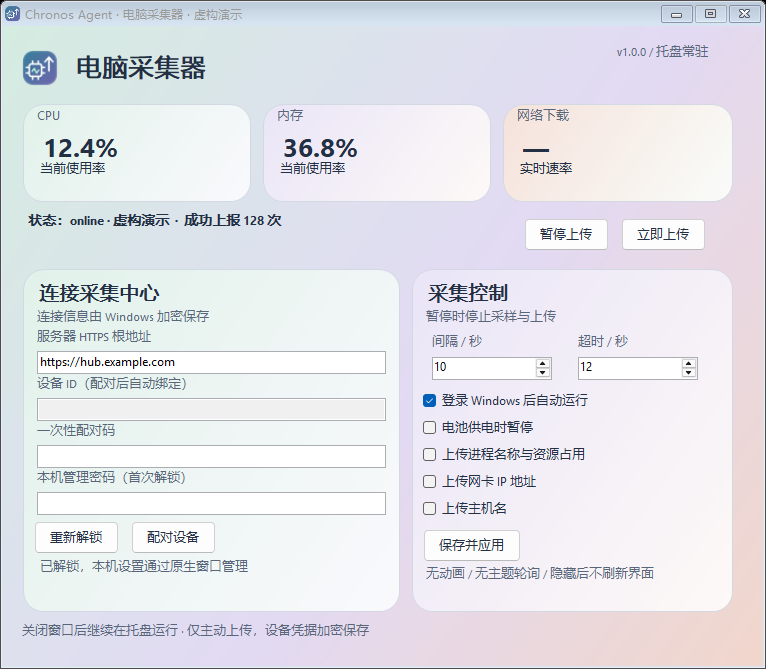
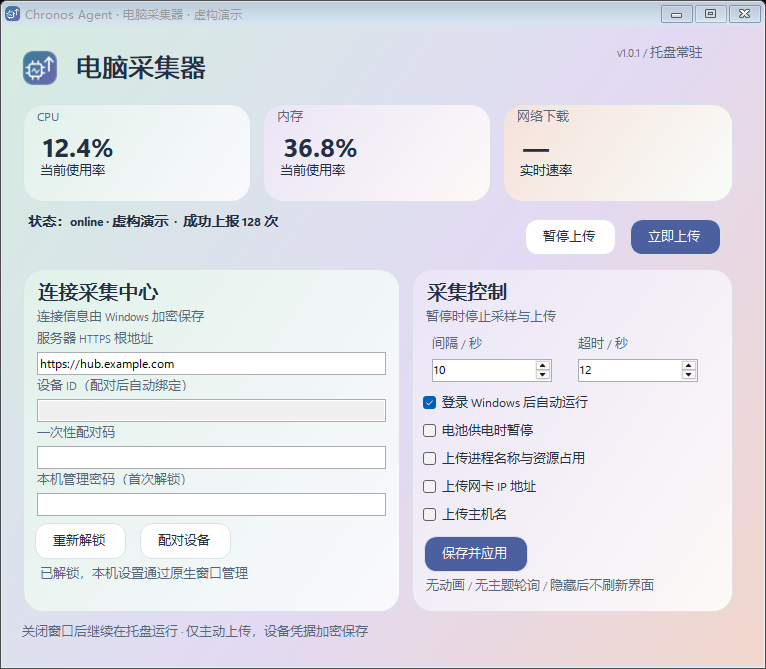
Ship adaptive Windows desktop layouts and shared Chronos desktop design

diff --git a/website/index.html b/website/index.html
@@ -1,1 +1,1 @@
-<!doctype html><html lang="zh-CN" data-theme="light"><head><meta name="theme-color" content="#f4f5f9"><meta charset="utf-8"><meta name="viewport" content="width=device-width,initial-scale=1"><meta name="color-scheme" content="light dark"><title>Chronos Agents — 每台设备，都有回应。</title><meta name="description" content="多端统一采集与自托管接收中心，原生桌面、Android App、Linux 与 NAS 网页管理。"><link rel="icon" href="assets/logo.svg"><script>try{let t=localStorage.getItem('chronos-site-theme');document.documentElement.dataset.theme=t==='dark'||t!=='light'&&matchMedia('(prefers-color-scheme:dark)').matches?'dark':'light'}catch{document.documentElement.dataset.theme=matchMedia('(prefers-color-scheme:dark)').matches?'dark':'light'}</script><link rel="stylesheet" href="style.css"><script src="app.js" defer></script><link rel="stylesheet" href="suite.css"><script src="suite.js" defer></script></head><body><a class="skip" href="#main">跳到正文</a><div class="ambient" aria-hidden="true"><i></i><i></i><i></i></div><header class="nav glass"><a class="brand" href="#"><img src="assets/logo.svg" width="32" height="32" alt=""><span>Chronos <b>Agents</b></span></a><nav aria-label="主导航"><a href="#platforms">多端</a><a href="#privacy">安全</a><a href="#start">开始</a></nav><div class="nav-actions"><button id="theme-toggle" class="icon-button" aria-label="切换明暗模式"><svg viewBox="0 0 24 24" aria-hidden="true"><path d="M20.5 14A8.5 8.5 0 0 1 10 3.5 8.5 8.5 0 1 0 20.5 14Z"/></svg></button><a href="https://github.com/Jimmy-xuzimo/Chronos-Agents">GitHub ↗</a></div></header><nav class="suite-rail wrap" aria-label="Chronos 系列项目"><a href="https://jimmy-xuzimo.github.io/Chronos-Monitoring/"><svg class="suite-icon" viewBox="0 0 24 24" aria-hidden="true"><rect x="3" y="4" width="18" height="13" rx="2"/><path d="M8 21h8m-4-4v4M6 8h5m-5 3h3m5-3h4m-4 3h4"/></svg><span>Monitoring</span></a><a href="https://jimmy-xuzimo.github.io/Chronos-Widgets/"><svg class="suite-icon" viewBox="0 0 24 24" aria-hidden="true"><rect x="3" y="3" width="7" height="9" rx="2"/><rect x="14" y="3" width="7" height="5" rx="2"/><rect x="3" y="16" width="7" height="5" rx="2"/><rect x="14" y="12" width="7" height="9" rx="2"/></svg><span>Widgets</span></a><a href="https://jimmy-xuzimo.github.io/Chronos-Agents/" aria-current="page"><svg class="suite-icon" viewBox="0 0 24 24" aria-hidden="true"><rect x="5" y="5" width="14" height="14" rx="3"/><path d="M9 2v3m6-3v3M9 19v3m6-3v3M2 9h3m-3 6h3m14-6h3m-3 6h3M8 13h2l2-4 2 6 2-3"/></svg><span>Agents</span></a></nav><main id="main"><section class="hero wrap"><div class="eyebrow"><span class="status-dot"></span> SELF-HOSTED · CROSS-PLATFORM · OPEN SOURCE</div><h1>每台设备，<br>都有<span class="gradient-text">回应。</span></h1><p class="hero-copy">从电脑到 NAS，从桌面到手机。<br>一致的协议，把状态送回自己的服务器。</p><div class="hero-actions"><a class="button primary" href="https://github.com/Jimmy-xuzimo/Chronos-Agents/releases">查看发行版本 ↓</a><a class="button secondary" href="#platforms">选择平台 ↗</a></div><p class="micro">原生桌面窗口 · 独立接收中心 · Apache 2.0</p><div class="hero-stage reveal"><div class="stage-toolbar"><span><i class="status-dot"></i> 一个 Hub，连接不同设备</span><span class="stage-label">真实界面 · 虚构演示数据</span></div><img src="assets/hub.png" width="1440" height="1000" alt="Hub 管理界面，使用虚构设备数据"><div class="stage-caption"><span>能力状态清晰，缺失指标不伪造为零。</span><span>数据留在自己的服务器</span></div></div></section><section class="wrap section"><div class="section-top"><div><p class="eyebrow">NATIVE WINDOWS</p><h2>熟悉的窗口，<br>新的采集核心。</h2></div><p>性能摘要、连接和采集控制清楚分区。<br>原生系统控件，没有 WebView，没有浏览器依赖。</p></div><div class="hero-stage reveal"><img src="assets/windows-native.png" width="767" height="669" alt="Windows 原生双栏采集器，虚构数据"><div class="stage-caption"><span>原生窗口实际渲染 · 虚构演示</span></div></div></section><section id="platforms" class="wrap section"><div class="section-top"><div><p class="eyebrow">NATIVE WHERE IT MATTERS</p><h2>适合每个平台，<br>遵循同一个协议。</h2></div><p>桌面就是桌面，服务就是服务。<br>交互与稳定，各有各的位置。</p></div><div class="catalog"><article class="reveal"><h3>Windows</h3><p>原生桌面窗口、托盘常驻。配对、暂停、间隔与隐私控制直接操作，无需本机网页。</p><small>登录自启动 · DPAPI</small></article><article class="reveal"><h3>macOS</h3><p>SwiftUI 原生窗口与菜单栏后台采集。可选 LaunchAgent 登录启动，管理密码进入钥匙串。</p><small>Intel / Apple Silicon · macOS 13+</small></article><article class="reveal"><h3>Linux / NAS</h3><p>原生服务或 Docker，独立认证网页管理端口。只读挂载宿主资源，无需 Docker socket。</p><small>amd64 / arm64 · 非 root 容器</small></article><article class="reveal"><h3>Android</h3><p>原生 Compose App，前台实时采集；后台由 WorkManager 调度，尊重系统省电规则。</p><small>Keystore · 后台周期至少 15 分钟</small></article><article class="reveal"><h3>独立接收中心</h3><p>一次性配对、权限、撤销、历史与审计。使用自己的 HTTPS 域名部署 Hub。</p><small>SQLite · CPU 历史与能力快照</small></article><article class="reveal"><h3>只读接入</h3><p>只读接入 Monitoring 工作台，再由 Widgets 将状态带到桌面。</p><small><a href="https://jimmy-xuzimo.github.io/Chronos-Monitoring/">Monitoring ↗</a> · <a href="https://jimmy-xuzimo.github.io/Chronos-Widgets/">Widgets ↗</a></small></article></div></section><section id="privacy" class="wrap section privacy"><div><p class="eyebrow">YOUR DATA, YOUR SERVER</p><h2>能看到状态，<br>不必收集生活。</h2></div><div class="privacy-points"><p><b>01</b>HTTPS 校验证书，每台设备独立凭据；配对码短时有效且只能使用一次。</p><p><b>02</b>进程、主机名与网络地址默认关闭，需要本地和中心同时允许。</p><p><b>03</b>无远程命令、短信、联系人或浏览器历史。离线队列仅在内存，且有容量上限。</p><p><b>04</b>不支持的指标明确标记。Android 不宣称能够读取完整整机 CPU。</p></div></section><section id="start" class="wrap section"><div class="section-top"><div><p class="eyebrow">THREE STEPS</p><h2>部署，配对，开始。</h2></div><p>从一台测试节点开始，逐个接入。</p></div><ol class="steps"><li><span>01</span><h3>部署 Hub</h3><p>配置 HTTPS，使用私有初始化文件设置管理密码。</p></li><li><span>02</span><h3>创建配对码</h3><p>选择设备类型，生成十分钟内有效的配对码。</p></li><li><span>03</span><h3>连接 Agent</h3><p>从原生窗口、网页或 Android App 配对并确认能力。</p></li></ol><div class="faq"><h3>下载前了解</h3><details><summary>每个平台的指标一样吗？</summary><p>协议、单位和状态统一，系统权限决定实际可读能力。缺失数据不会假装正常。</p></details><details><summary>所有硬件都验证过了吗？</summary><p>没有。CI、模拟器和真实部署分别记录。macOS 桌面实机、Android 厂商省电与长期压力仍需验证，请阅读验证文档。</p></details><details><summary>安装包经过系统签名吗？</summary><p>Android 使用独立签名；Windows 无商业代码签名，macOS 未公证。请从官方 Release 下载并核对 SHA256。</p></details></div></section><section id="chronos-family" class="wrap section suite-section"><div class="section-top reveal"><div><p class="eyebrow">THE CHRONOS FAMILY</p><h2>从设备，到日常，<br>再到你的桌面。</h2></div><p>三个独立项目，一致的设计。<br>按需组合，分别部署。</p></div><div class="suite-grid"><article class="suite-card reveal" data-project="Monitoring"><svg class="suite-icon" viewBox="0 0 24 24" aria-hidden="true"><rect x="3" y="4" width="18" height="13" rx="2"/><path d="M8 21h8m-4-4v4M6 8h5m-5 3h3m5-3h4m-4 3h4"/></svg><span class="suite-role">工作台</span><h3>Chronos Monitoring</h3><p>课程、设备、网站证书、入口与动态，在自己的服务器统一维护。</p><div class="suite-links"><a href="https://jimmy-xuzimo.github.io/Chronos-Monitoring/">产品主页 ↗</a><a href="https://github.com/Jimmy-xuzimo/Chronos-Monitoring">源代码 ↗</a><a href="https://github.com/Jimmy-xuzimo/Chronos-Monitoring/blob/main/docs/deployment.md">使用文档 ↗</a></div></article><article class="suite-card reveal" data-project="Widgets"><svg class="suite-icon" viewBox="0 0 24 24" aria-hidden="true"><rect x="3" y="3" width="7" height="9" rx="2"/><rect x="14" y="3" width="7" height="5" rx="2"/><rect x="3" y="16" width="7" height="5" rx="2"/><rect x="14" y="12" width="7" height="9" rx="2"/></svg><span class="suite-role">桌面组件</span><h3>Chronos Widgets</h3><p>连接 Monitoring，把课程、设备和动态变成可以自由排布的 Windows 小组件。</p><div class="suite-links"><a href="https://jimmy-xuzimo.github.io/Chronos-Widgets/">产品主页 ↗</a><a href="https://github.com/Jimmy-xuzimo/Chronos-Widgets">源代码 ↗</a><a href="https://github.com/Jimmy-xuzimo/Chronos-Widgets/blob/main/docs/GETTING_STARTED.md">使用文档 ↗</a></div></article><article class="suite-card reveal" data-project="Agents"><svg class="suite-icon" viewBox="0 0 24 24" aria-hidden="true"><rect x="5" y="5" width="14" height="14" rx="3"/><path d="M9 2v3m6-3v3M9 19v3m6-3v3M2 9h3m-3 6h3m14-6h3m-3 6h3M8 13h2l2-4 2 6 2-3"/></svg><span class="suite-current">当前项目</span><span class="suite-role">设备采集</span><h3>Chronos Agents</h3><p>跨平台采集器与独立 Hub，认证上报、保留历史，按需接入工作台。</p><div class="suite-links"><a href="https://jimmy-xuzimo.github.io/Chronos-Agents/">产品主页 ↗</a><a href="https://github.com/Jimmy-xuzimo/Chronos-Agents">源代码 ↗</a><a href="https://github.com/Jimmy-xuzimo/Chronos-Agents/blob/main/docs/DEPLOYMENT.md">使用文档 ↗</a></div></article></div><div class="suite-flow" aria-label="可选接入关系"><a href="https://jimmy-xuzimo.github.io/Chronos-Agents/">Agents<small>设备采集与 Hub</small></a><span aria-hidden="true">→</span><a href="https://jimmy-xuzimo.github.io/Chronos-Monitoring/">Monitoring<small>后端只读适配</small></a><span aria-hidden="true">→</span><a href="https://jimmy-xuzimo.github.io/Chronos-Widgets/">Widgets<small>Windows 桌面展示</small></a></div><p class="suite-note">Agents 可独立使用；Widgets 通过工作台读取信息。Hub 不负责课程或资讯。接入顺序、凭据区别与旧采集器迁移，见 <a href="https://github.com/Jimmy-xuzimo/Chronos-Agents/blob/main/docs/CHRONOS_ECOSYSTEM.md">三项目接入指南 ↗</a>。</p></section><section class="wrap final-cta"><h2>把设备连起来，<br>让数据留在自己手里。</h2><div class="hero-actions"><a class="button primary" href="https://github.com/Jimmy-xuzimo/Chronos-Agents/releases">下载与校验 ↓</a><a class="button secondary" href="https://github.com/Jimmy-xuzimo/Chronos-Agents/blob/main/docs/DEPLOYMENT.md">部署指南 ↗</a></div></section></main><footer class="wrap"><span>Chronos Agents · Apache 2.0</span><div><a href="https://github.com/Jimmy-xuzimo/Chronos-Agents">源码</a><a href="https://github.com/Jimmy-xuzimo/Chronos-Agents/blob/main/docs/PRIVACY.md">隐私</a><a href="https://github.com/Jimmy-xuzimo/Chronos-Agents/blob/main/docs/VALIDATION.md">验证范围</a></div><nav class="suite-footer" aria-label="Chronos 其他项目"><a href="https://jimmy-xuzimo.github.io/Chronos-Monitoring/">Chronos Monitoring ↗</a><a href="https://jimmy-xuzimo.github.io/Chronos-Widgets/">Chronos Widgets ↗</a><a href="https://jimmy-xuzimo.github.io/Chronos-Agents/" aria-current="page">Chronos Agents ↗</a></nav></footer></body></html>
+<!doctype html><html lang="zh-CN" data-theme="light"><head><meta name="theme-color" content="#f4f5f9"><meta charset="utf-8"><meta name="viewport" content="width=device-width,initial-scale=1"><meta name="color-scheme" content="light dark"><title>Chronos Agents — 每台设备，都有回应。</title><meta name="description" content="多端统一采集与自托管接收中心，原生桌面、Android App、Linux 与 NAS 网页管理。"><link rel="icon" href="assets/logo.svg"><script>try{let t=localStorage.getItem('chronos-site-theme');document.documentElement.dataset.theme=t==='dark'||t!=='light'&&matchMedia('(prefers-color-scheme:dark)').matches?'dark':'light'}catch{document.documentElement.dataset.theme=matchMedia('(prefers-color-scheme:dark)').matches?'dark':'light'}</script><link rel="stylesheet" href="style.css"><script src="app.js" defer></script><link rel="stylesheet" href="suite.css"><script src="suite.js" defer></script></head><body><a class="skip" href="#main">跳到正文</a><div class="ambient" aria-hidden="true"><i></i><i></i><i></i></div><header class="nav glass"><a class="brand" href="#"><img src="assets/logo.svg" width="32" height="32" alt=""><span>Chronos <b>Agents</b></span></a><nav aria-label="主导航"><a href="#platforms">多端</a><a href="#privacy">安全</a><a href="#start">开始</a></nav><div class="nav-actions"><button id="theme-toggle" class="icon-button" aria-label="切换明暗模式"><svg viewBox="0 0 24 24" aria-hidden="true"><path d="M20.5 14A8.5 8.5 0 0 1 10 3.5 8.5 8.5 0 1 0 20.5 14Z"/></svg></button><a href="https://github.com/Jimmy-xuzimo/Chronos-Agents">GitHub ↗</a></div></header><nav class="suite-rail wrap" aria-label="Chronos 系列项目"><a href="https://jimmy-xuzimo.github.io/Chronos-Monitoring/"><svg class="suite-icon" viewBox="0 0 24 24" aria-hidden="true"><rect x="3" y="4" width="18" height="13" rx="2"/><path d="M8 21h8m-4-4v4M6 8h5m-5 3h3m5-3h4m-4 3h4"/></svg><span>Monitoring</span></a><a href="https://jimmy-xuzimo.github.io/Chronos-Widgets/"><svg class="suite-icon" viewBox="0 0 24 24" aria-hidden="true"><rect x="3" y="3" width="7" height="9" rx="2"/><rect x="14" y="3" width="7" height="5" rx="2"/><rect x="3" y="16" width="7" height="5" rx="2"/><rect x="14" y="12" width="7" height="9" rx="2"/></svg><span>Widgets</span></a><a href="https://jimmy-xuzimo.github.io/Chronos-Agents/" aria-current="page"><svg class="suite-icon" viewBox="0 0 24 24" aria-hidden="true"><rect x="5" y="5" width="14" height="14" rx="3"/><path d="M9 2v3m6-3v3M9 19v3m6-3v3M2 9h3m-3 6h3m14-6h3m-3 6h3M8 13h2l2-4 2 6 2-3"/></svg><span>Agents</span></a></nav><main id="main"><section class="hero wrap"><div class="eyebrow"><span class="status-dot"></span> SELF-HOSTED · CROSS-PLATFORM · OPEN SOURCE</div><h1>每台设备，<br>都有<span class="gradient-text">回应。</span></h1><p class="hero-copy">从电脑到 NAS，从桌面到手机。<br>一致的协议，把状态送回自己的服务器。</p><div class="hero-actions"><a class="button primary" href="https://github.com/Jimmy-xuzimo/Chronos-Agents/releases">查看发行版本 ↓</a><a class="button secondary" href="#platforms">选择平台 ↗</a></div><p class="micro">原生桌面窗口 · 独立接收中心 · Apache 2.0</p><div class="hero-stage reveal"><div class="stage-toolbar"><span><i class="status-dot"></i> 一个 Hub，连接不同设备</span><span class="stage-label">真实界面 · 虚构演示数据</span></div><img src="assets/hub.png" width="1440" height="1000" alt="Hub 管理界面，使用虚构设备数据"><div class="stage-caption"><span>能力状态清晰，缺失指标不伪造为零。</span><span>数据留在自己的服务器</span></div></div></section><section class="wrap section"><div class="section-top"><div><p class="eyebrow">NATIVE WINDOWS</p><h2>统一的桌面设计，<br>新的采集核心。</h2></div><p>Windows 1.0.1 与 Widgets 1.2.0 统一彩色玻璃与控件规范。性能摘要、连接和采集控制清楚分区。<br>原生系统控件，没有 WebView，没有浏览器依赖。</p></div><div class="hero-stage reveal"><img src="assets/windows-native.png" width="767" height="669" alt="Windows 原生双栏采集器，虚构数据"><div class="stage-caption"><span>原生窗口实际渲染 · 虚构演示</span></div></div></section><section id="platforms" class="wrap section"><div class="section-top"><div><p class="eyebrow">NATIVE WHERE IT MATTERS</p><h2>适合每个平台，<br>遵循同一个协议。</h2></div><p>桌面就是桌面，服务就是服务。<br>交互与稳定，各有各的位置。</p></div><div class="catalog"><article class="reveal"><h3>Windows</h3><p>原生桌面窗口、托盘常驻。配对、暂停、间隔与隐私控制直接操作，无需本机网页。</p><small>登录自启动 · DPAPI</small></article><article class="reveal"><h3>macOS</h3><p>SwiftUI 原生窗口与菜单栏后台采集。可选 LaunchAgent 登录启动，管理密码进入钥匙串。</p><small>Intel / Apple Silicon · macOS 13+</small></article><article class="reveal"><h3>Linux / NAS</h3><p>原生服务或 Docker，独立认证网页管理端口。只读挂载宿主资源，无需 Docker socket。</p><small>amd64 / arm64 · 非 root 容器</small></article><article class="reveal"><h3>Android</h3><p>原生 Compose App，前台实时采集；后台由 WorkManager 调度，尊重系统省电规则。</p><small>Keystore · 后台周期至少 15 分钟</small></article><article class="reveal"><h3>独立接收中心</h3><p>一次性配对、权限、撤销、历史与审计。使用自己的 HTTPS 域名部署 Hub。</p><small>SQLite · CPU 历史与能力快照</small></article><article class="reveal"><h3>只读接入</h3><p>只读接入 Monitoring 工作台，再由 Widgets 将状态带到桌面。</p><small><a href="https://jimmy-xuzimo.github.io/Chronos-Monitoring/">Monitoring ↗</a> · <a href="https://jimmy-xuzimo.github.io/Chronos-Widgets/">Widgets ↗</a></small></article></div></section><section id="privacy" class="wrap section privacy"><div><p class="eyebrow">YOUR DATA, YOUR SERVER</p><h2>能看到状态，<br>不必收集生活。</h2></div><div class="privacy-points"><p><b>01</b>HTTPS 校验证书，每台设备独立凭据；配对码短时有效且只能使用一次。</p><p><b>02</b>进程、主机名与网络地址默认关闭，需要本地和中心同时允许。</p><p><b>03</b>无远程命令、短信、联系人或浏览器历史。离线队列仅在内存，且有容量上限。</p><p><b>04</b>不支持的指标明确标记。Android 不宣称能够读取完整整机 CPU。</p></div></section><section id="start" class="wrap section"><div class="section-top"><div><p class="eyebrow">THREE STEPS</p><h2>部署，配对，开始。</h2></div><p>从一台测试节点开始，逐个接入。</p></div><ol class="steps"><li><span>01</span><h3>部署 Hub</h3><p>配置 HTTPS，使用私有初始化文件设置管理密码。</p></li><li><span>02</span><h3>创建配对码</h3><p>选择设备类型，生成十分钟内有效的配对码。</p></li><li><span>03</span><h3>连接 Agent</h3><p>从原生窗口、网页或 Android App 配对并确认能力。</p></li></ol><div class="faq"><h3>下载前了解</h3><details><summary>每个平台的指标一样吗？</summary><p>协议、单位和状态统一，系统权限决定实际可读能力。缺失数据不会假装正常。</p></details><details><summary>所有硬件都验证过了吗？</summary><p>没有。CI、模拟器和真实部署分别记录。macOS 桌面实机、Android 厂商省电与长期压力仍需验证，请阅读验证文档。</p></details><details><summary>安装包经过系统签名吗？</summary><p>Android 使用独立签名；Windows 无商业代码签名，macOS 未公证。请从官方 Release 下载并核对 SHA256。</p></details></div></section><section id="chronos-family" class="wrap section suite-section"><div class="section-top reveal"><div><p class="eyebrow">THE CHRONOS FAMILY</p><h2>从设备，到日常，<br>再到你的桌面。</h2></div><p>三个独立项目，一致的设计。<br>按需组合，分别部署。</p></div><div class="suite-grid"><article class="suite-card reveal" data-project="Monitoring"><svg class="suite-icon" viewBox="0 0 24 24" aria-hidden="true"><rect x="3" y="4" width="18" height="13" rx="2"/><path d="M8 21h8m-4-4v4M6 8h5m-5 3h3m5-3h4m-4 3h4"/></svg><span class="suite-role">工作台</span><h3>Chronos Monitoring</h3><p>课程、设备、网站证书、入口与动态，在自己的服务器统一维护。</p><div class="suite-links"><a href="https://jimmy-xuzimo.github.io/Chronos-Monitoring/">产品主页 ↗</a><a href="https://github.com/Jimmy-xuzimo/Chronos-Monitoring">源代码 ↗</a><a href="https://github.com/Jimmy-xuzimo/Chronos-Monitoring/blob/main/docs/deployment.md">使用文档 ↗</a></div></article><article class="suite-card reveal" data-project="Widgets"><svg class="suite-icon" viewBox="0 0 24 24" aria-hidden="true"><rect x="3" y="3" width="7" height="9" rx="2"/><rect x="14" y="3" width="7" height="5" rx="2"/><rect x="3" y="16" width="7" height="5" rx="2"/><rect x="14" y="12" width="7" height="9" rx="2"/></svg><span class="suite-role">桌面组件</span><h3>Chronos Widgets</h3><p>连接 Monitoring，把课程、设备和动态变成可以自由排布的 Windows 小组件。</p><div class="suite-links"><a href="https://jimmy-xuzimo.github.io/Chronos-Widgets/">产品主页 ↗</a><a href="https://github.com/Jimmy-xuzimo/Chronos-Widgets">源代码 ↗</a><a href="https://github.com/Jimmy-xuzimo/Chronos-Widgets/blob/main/docs/GETTING_STARTED.md">使用文档 ↗</a></div></article><article class="suite-card reveal" data-project="Agents"><svg class="suite-icon" viewBox="0 0 24 24" aria-hidden="true"><rect x="5" y="5" width="14" height="14" rx="3"/><path d="M9 2v3m6-3v3M9 19v3m6-3v3M2 9h3m-3 6h3m14-6h3m-3 6h3M8 13h2l2-4 2 6 2-3"/></svg><span class="suite-current">当前项目</span><span class="suite-role">设备采集</span><h3>Chronos Agents</h3><p>跨平台采集器与独立 Hub，认证上报、保留历史，按需接入工作台。</p><div class="suite-links"><a href="https://jimmy-xuzimo.github.io/Chronos-Agents/">产品主页 ↗</a><a href="https://github.com/Jimmy-xuzimo/Chronos-Agents">源代码 ↗</a><a href="https://github.com/Jimmy-xuzimo/Chronos-Agents/blob/main/docs/DEPLOYMENT.md">使用文档 ↗</a></div></article></div><div class="suite-flow" aria-label="可选接入关系"><a href="https://jimmy-xuzimo.github.io/Chronos-Agents/">Agents<small>设备采集与 Hub</small></a><span aria-hidden="true">→</span><a href="https://jimmy-xuzimo.github.io/Chronos-Monitoring/">Monitoring<small>后端只读适配</small></a><span aria-hidden="true">→</span><a href="https://jimmy-xuzimo.github.io/Chronos-Widgets/">Widgets<small>Windows 桌面展示</small></a></div><p class="suite-note">Agents 可独立使用；Widgets 通过工作台读取信息。Hub 不负责课程或资讯。接入顺序、凭据区别与旧采集器迁移，见 <a href="https://github.com/Jimmy-xuzimo/Chronos-Agents/blob/main/docs/CHRONOS_ECOSYSTEM.md">三项目接入指南 ↗</a>。</p></section><section class="wrap final-cta"><h2>把设备连起来，<br>让数据留在自己手里。</h2><div class="hero-actions"><a class="button primary" href="https://github.com/Jimmy-xuzimo/Chronos-Agents/releases">下载与校验 ↓</a><a class="button secondary" href="https://github.com/Jimmy-xuzimo/Chronos-Agents/blob/main/docs/DEPLOYMENT.md">部署指南 ↗</a></div></section></main><footer class="wrap"><span>Chronos Agents · Apache 2.0</span><div><a href="https://github.com/Jimmy-xuzimo/Chronos-Agents">源码</a><a href="https://github.com/Jimmy-xuzimo/Chronos-Agents/blob/main/docs/PRIVACY.md">隐私</a><a href="https://github.com/Jimmy-xuzimo/Chronos-Agents/blob/main/docs/VALIDATION.md">验证范围</a></div><nav class="suite-footer" aria-label="Chronos 其他项目"><a href="https://jimmy-xuzimo.github.io/Chronos-Monitoring/">Chronos Monitoring ↗</a><a href="https://jimmy-xuzimo.github.io/Chronos-Widgets/">Chronos Widgets ↗</a><a href="https://jimmy-xuzimo.github.io/Chronos-Agents/" aria-current="page">Chronos Agents ↗</a></nav></footer></body></html>

diff --git a/clients/windows-native/Control.cs b/clients/windows-native/Control.cs
@@ -24,9 +24,9 @@ sealed class AgentSkin {
  public static Color C(string s){return ColorTranslator.FromHtml(s);}
  public AgentSkin(){
   Dark=false;Industrial=false;Colorful=true;
-  Ink=C("#233044");Muted=C("#59667A");Surface=Color.White;Background=C("#F1F5F8");
-  Accent=C("#4C5F9E");G1=C("#D5ECE1");G2=C("#E2DAF4");G3=C("#F1D6CB");
-  Gradient=Blend(Surface,Accent,.12f);Line=C("#D2D9E3");
+  Ink=C(DesktopDesign.Value("ink"));Muted=C(DesktopDesign.Value("muted"));Surface=C(DesktopDesign.Value("surface"));Background=C(DesktopDesign.Value("canvas"));
+  Accent=C(DesktopDesign.Value("accent"));G1=C(DesktopDesign.Gradient(0));G2=C(DesktopDesign.Gradient(1));G3=C(DesktopDesign.Gradient(2));
+  Gradient=Blend(Surface,Accent,.12f);Line=C(DesktopDesign.Value("line"));
  }
  public Color CardTint(int index){var c=index%3==0?G1:index%3==1?G2:G3;return Blend(Surface,c,Colorful?(Dark?.48f:.7f):.3f);}
  public static Color Blend(Color a,Color b,float t){return Color.FromArgb((int)(a.R+(b.R-a.R)*t),(int)(a.G+(b.G-a.G)*t),(int)(a.B+(b.B-a.B)*t));}
@@ -49,9 +49,9 @@ class ControlWindow : Form {
  string Str(Dictionary<string,object> d,string k){return d.ContainsKey(k)&&d[k]!=null?Convert.ToString(d[k]):"";}
  bool Flag(Dictionary<string,object>d,string k){return d.ContainsKey(k)&&d[k] is bool&&(bool)d[k];}
  public ControlWindow(){
- Text="Chronos Agent · 电脑采集器"+(demo?" · 虚构演示":"");ClientSize=new Size(760,640);FormBorderStyle=FormBorderStyle.FixedSingle;MaximizeBox=false;StartPosition=FormStartPosition.CenterScreen;AutoScaleMode=AutoScaleMode.None;Font=new Font("Segoe UI",9);DoubleBuffered=true;ForeColor=skin.Ink;try{Icon=Icon.ExtractAssociatedIcon(Application.ExecutablePath);}catch{}
+ Text="Chronos Agent · 电脑采集器"+(demo?" · 虚构演示":"");ClientSize=new Size(760,640);FormBorderStyle=FormBorderStyle.FixedSingle;MaximizeBox=false;StartPosition=FormStartPosition.CenterScreen;AutoScaleMode=AutoScaleMode.None;Font=new Font(DesktopDesign.FontName,9);DoubleBuffered=true;ForeColor=skin.Ink;try{Icon=Icon.ExtractAssociatedIcon(Application.ExecutablePath);}catch{}
  var shell=new TableLayoutPanel{Dock=DockStyle.Fill,Padding=new Padding(16),ColumnCount=1,BackColor=Color.Transparent};shell.RowStyles.Add(new RowStyle(SizeType.Absolute,58));shell.RowStyles.Add(new RowStyle(SizeType.Absolute,110));shell.RowStyles.Add(new RowStyle(SizeType.Absolute,55));shell.RowStyles.Add(new RowStyle(SizeType.Percent,100));shell.RowStyles.Add(new RowStyle(SizeType.Absolute,26));Controls.Add(shell);
- var header=new TableLayoutPanel{Dock=DockStyle.Fill,ColumnCount=2,BackColor=Color.Transparent};header.ColumnStyles.Add(new ColumnStyle(SizeType.Percent,100));header.ColumnStyles.Add(new ColumnStyle(SizeType.Absolute,130));var brand=Flow(new PictureBox{Image=Icon.ToBitmap(),SizeMode=PictureBoxSizeMode.Zoom,Size=new Size(36,36)},Heading("电脑采集器",18,true));header.Controls.Add(brand,0,0);header.Controls.Add(Heading("v1.0.0 / 托盘常驻",8,false),1,0);shell.Controls.Add(header,0,0);
+ var header=new TableLayoutPanel{Dock=DockStyle.Fill,ColumnCount=2,BackColor=Color.Transparent};header.ColumnStyles.Add(new ColumnStyle(SizeType.Percent,100));header.ColumnStyles.Add(new ColumnStyle(SizeType.Absolute,130));var brand=Flow(new PictureBox{Image=Icon.ToBitmap(),SizeMode=PictureBoxSizeMode.Zoom,Size=new Size(36,36)},Heading("电脑采集器",18,true));header.Controls.Add(brand,0,0);header.Controls.Add(Heading("v1.0.1 / 托盘常驻",8,false),1,0);shell.Controls.Add(header,0,0);
  var metricRow=new TableLayoutPanel{Dock=DockStyle.Fill,ColumnCount=3,BackColor=Color.Transparent};for(int i=0;i<3;i++)metricRow.ColumnStyles.Add(new ColumnStyle(SizeType.Percent,33.333f));MetricCard(metricRow,"CPU",cpuValue,cpuNote,0);MetricCard(metricRow,"内存",memValue,memNote,1);MetricCard(metricRow,"网络下载",netValue,netNote,2);shell.Controls.Add(metricRow,0,1);
  status.AutoSize=true;status.Font=new Font(Font.FontFamily,9,FontStyle.Bold);status.Text="等待采集状态";var stateRow=new TableLayoutPanel{Dock=DockStyle.Fill,ColumnCount=2,BackColor=Color.Transparent};stateRow.ColumnStyles.Add(new ColumnStyle(SizeType.Percent,100));stateRow.ColumnStyles.Add(new ColumnStyle(SizeType.Absolute,220));stateRow.Controls.Add(status,0,0);pause=MakeButton("暂停上传",async()=>{var next=new Dictionary<string,object>(config);next["paused"]=!paused;await Api("/api/local/config",next);await Refresh(true);});upload=MakeButton("立即上传",async()=>{await Api("/api/local/upload",new{});notice.Text="已请求采样；重试退避仍然生效";});stateRow.Controls.Add(Flow(pause,upload),1,0);shell.Controls.Add(stateRow,0,2);
  var body=new TableLayoutPanel{Dock=DockStyle.Fill,ColumnCount=2,BackColor=Color.Transparent};body.ColumnStyles.Add(new ColumnStyle(SizeType.Percent,54));body.ColumnStyles.Add(new ColumnStyle(SizeType.Percent,46));shell.Controls.Add(body,0,3);
@@ -76,12 +76,12 @@ class ControlWindow : Form {
  FlowLayoutPanel Flow(params Control[] controls){var flow=new FlowLayoutPanel{AutoSize=true,Dock=DockStyle.Top,WrapContents=true,Margin=new Padding(0,3,0,3)};foreach(var c in controls){c.Margin=new Padding(0,2,12,2);flow.Controls.Add(c);}return flow;}
  void SetCheck(CheckBox c,string text){c.Text=text;c.AutoSize=true;c.BackColor=Color.Transparent;c.Margin=new Padding(0,3,0,5);}
  void AddField(TableLayoutPanel table,string text,Control control){int row=table.RowCount++;table.RowStyles.Add(new RowStyle(SizeType.AutoSize));var label=new Label{Text=text,AutoSize=true,Anchor=AnchorStyles.Top|AnchorStyles.Left,Margin=new Padding(0,8,14,6)};control.Margin=new Padding(0,4,0,4);table.Controls.Add(label,0,row);table.Controls.Add(control,1,row);}
- Button MakeButton(string text,Func<Task> action){var b=new Button{Text=text,AutoSize=true,Padding=new Padding(8,4,8,4),UseVisualStyleBackColor=true};b.Click+=async(s,e)=>{if(busy)return;busy=true;b.Enabled=false;try{await action();}catch(Exception ex){notice.Text=ex.Message;}finally{busy=false;b.Enabled=true;}};return b;}
+ Button MakeButton(string text,Func<Task> action){var b=new GlassButton{Text=text,AutoSize=true,Padding=new Padding(12,6,12,6),Primary=text=="保存并应用"||text=="立即上传"};b.Click+=async(s,e)=>{if(busy)return;busy=true;b.Enabled=false;try{await action();}catch(Exception ex){notice.Text=ex.Message;}finally{busy=false;b.Enabled=true;}};return b;}
  async Task<Dictionary<string,object>> Api(string path,object body=null){if(demo){await Task.Yield();if(path=="/api/session")return new Dictionary<string,object>{{"initialized",true}};if(path=="/api/login")return new Dictionary<string,object>{{"csrf","fictional"}};if(path=="/api/local/status")return json.Deserialize<Dictionary<string,object>>("{\"config\":{\"hub\":\"https://hub.example.com\",\"interval\":10},\"status\":{\"state\":\"online · 虚构演示\",\"successes\":128,\"sample\":{\"metrics\":{\"cpu\":{\"status\":\"supported\",\"data\":{\"percent\":12.4}},\"memory\":{\"status\":\"supported\",\"data\":{\"percent\":36.8}}}}}}");return new Dictionary<string,object>();}using(var request=new HttpRequestMessage(body==null?HttpMethod.Get:HttpMethod.Post,path)){if(body!=null){request.Content=new StringContent(json.Serialize(body),Encoding.UTF8,"application/json");request.Headers.Add("Origin","http://127.0.0.1:17860");if(csrf!="")request.Headers.Add("X-CSRF-Token",csrf);}using(var response=await client.SendAsync(request)){var raw=await response.Content.ReadAsStringAsync();if(!response.IsSuccessStatusCode){if(response.StatusCode==HttpStatusCode.Unauthorized){config=null;EnabledControls(false);}throw new Exception("操作未完成（HTTP "+(int)response.StatusCode+"），请检查密码、配对码或连接状态");}return json.Deserialize<Dictionary<string,object>>(raw);}}}
  async Task Login(){var session=await Api("/api/session");var path=Flag(session,"initialized")?"/api/login":"/api/setup";string bootstrap="";if(path=="/api/setup")bootstrap=File.ReadAllText(Path.Combine(data,"bootstrap-secret")).Trim();var result=await Api(path,new{password=password.Text,bootstrap=bootstrap});csrf=Str(result,"csrf");if(!demo){Directory.CreateDirectory(data);File.WriteAllBytes(Path.Combine(data,"native-password.dpapi"),ProtectedData.Protect(Encoding.UTF8.GetBytes(password.Text),null,DataProtectionScope.CurrentUser));}password.Clear();login.Text="重新解锁";await Refresh(true);notice.Text="已解锁，本机设置通过原生窗口管理";}
  async Task Refresh(bool fields){var result=await Api("/api/local/status");config=Dict(result["config"]);var state=Dict(result["status"]);paused=Flag(config,"paused");status.Text="状态："+Str(state,"state")+"  ·  成功上报 "+Str(state,"successes")+" 次";pause.Text=paused?"恢复上传":"暂停上传";var sample=Dict(state.ContainsKey("sample")?state["sample"]:null);var metric=Dict(sample.ContainsKey("metrics")?sample["metrics"]:null);cpuValue.Text=Percent(metric,"cpu");memValue.Text=Percent(metric,"memory");cpuNote.Text="当前使用率";memNote.Text="当前使用率";var net=Dict(metric.ContainsKey("network")?metric["network"]:null);var netData=Dict(net.ContainsKey("data")?net["data"]:null);double rx;netValue.Text=double.TryParse(Str(netData,"rx_bytes_per_second"),out rx)?(rx/1048576).ToString("F1")+" MB/s":"—";netNote.Text="实时速率";if(fields){hub.Text=Str(config,"hub");device.Text=Str(config,"device_id");int seconds;timeout.Value=int.TryParse(Str(config,"timeout"),out seconds)?Math.Max(5,Math.Min(60,seconds)):12;interval.Value=int.TryParse(Str(config,"interval"),out seconds)?Math.Max(10,Math.Min(300,seconds)):10;processes.Checked=Flag(config,"processes");addresses.Checked=Flag(config,"addresses");hostname.Checked=Flag(config,"hostname");battery.Checked=Flag(config,"pause_on_battery");}EnabledControls(true);}
  string Percent(Dictionary<string,object> m,string name){if(!m.ContainsKey(name))return "—";var block=Dict(m[name]);if(Str(block,"status")!="supported")return "—";var d=Dict(block.ContainsKey("data")?block["data"]:null);double value;return double.TryParse(Str(d,"percent"),out value)?value.ToString("F1")+"%":"—";}
  void EnabledControls(bool value){save.Enabled=pair.Enabled=pause.Enabled=upload.Enabled=value;}
  bool Startup(){using(var key=Registry.CurrentUser.OpenSubKey(@"Software\Microsoft\Windows\CurrentVersion\Run"))return key!=null&&key.GetValue("ChronosAgent")!=null;}
- void SetStartup(bool value){using(var key=Registry.CurrentUser.CreateSubKey(@"Software\Microsoft\Windows\CurrentVersion\Run")){if(value)key.SetValue("ChronosAgent","\""+Path.Combine(AppDomain.CurrentDomain.BaseDirectory,"chronos-agent.exe")+"\"");else key.DeleteValue("ChronosAgent",false);}}
+ void SetStartup(bool value){using(var key=Registry.CurrentUser.CreateSubKey(@"Software\Microsoft\Windows\CurrentVersion\Run")){if(value)key.SetValue("ChronosAgent","\""+Path.Combine(AppDomain.CurrentDomain.BaseDirectory,"chronos-agent.exe")+"\" --data \""+data+"\"");else key.DeleteValue("ChronosAgent",false);}}
 }

diff --git a/clients/windows-native/GlassButton.cs b/clients/windows-native/GlassButton.cs
@@ -1,0 +1,23 @@
+using System;
+using System.Drawing;
+using System.Drawing.Drawing2D;
+using System.Windows.Forms;
+
+sealed class GlassButton : Button {
+ bool hover;
+ public bool Primary;
+ public GlassButton(){SetStyle(ControlStyles.UserPaint|ControlStyles.AllPaintingInWmPaint|ControlStyles.OptimizedDoubleBuffer,true);FlatStyle=FlatStyle.Flat;FlatAppearance.BorderSize=0;MinimumSize=new Size(0,Convert.ToInt32(DesktopDesign.Value("buttonHeight")));Cursor=Cursors.Hand;}
+ protected override void OnMouseEnter(EventArgs e){hover=true;Invalidate();base.OnMouseEnter(e);}
+ protected override void OnMouseLeave(EventArgs e){hover=false;Invalidate();base.OnMouseLeave(e);}
+ protected override void OnPaint(PaintEventArgs e){
+  e.Graphics.SmoothingMode=SmoothingMode.AntiAlias;
+  var rect=new Rectangle(1,1,Width-3,Height-3);if(rect.Width<5||rect.Height<5)return;
+  Color accent=ColorTranslator.FromHtml(DesktopDesign.Value("accent"));
+  Color fill=Primary?accent:Color.White;
+  if(hover)fill=AgentSkin.Blend(fill,accent,.12f);
+  if(!Enabled)fill=AgentSkin.Blend(fill,Color.White,.5f);
+  using(var path=AgentSkin.Round(rect,Convert.ToInt32(DesktopDesign.Value("controlRadius"))))using(var brush=new SolidBrush(fill))using(var pen=new Pen(Enabled?ColorTranslator.FromHtml(DesktopDesign.Value("line")):Color.LightGray)){e.Graphics.FillPath(brush,path);e.Graphics.DrawPath(pen,path);}
+  TextRenderer.DrawText(e.Graphics,Text,Font,rect,Enabled?(Primary?Color.White:ColorTranslator.FromHtml(DesktopDesign.Value("ink"))):Color.Gray,TextFormatFlags.HorizontalCenter|TextFormatFlags.VerticalCenter|TextFormatFlags.SingleLine|TextFormatFlags.EndEllipsis);
+  if(Focused&&ShowFocusCues)ControlPaint.DrawFocusRectangle(e.Graphics,new Rectangle(5,5,Math.Max(0,Width-10),Math.Max(0,Height-10)));
+ }
+}

diff --git a/clients/windows-native/DesktopDesign.cs b/clients/windows-native/DesktopDesign.cs
@@ -1,0 +1,14 @@
+using System;
+using System.IO;
+using System.Collections.Generic;
+using System.Web.Script.Serialization;
+using System.Linq;
+using System.Drawing.Text;
+static class DesktopDesign {
+ static readonly Dictionary<string,object> Data=Load();
+ static Dictionary<string,object> Load(){using(var s=typeof(DesktopDesign).Assembly.GetManifestResourceStream("Chronos.DesktopDesign.json")){if(s==null)throw new InvalidOperationException("Missing design tokens");using(var r=new StreamReader(s))return new JavaScriptSerializer().Deserialize<Dictionary<string,object>>(r.ReadToEnd());}}
+ public static string Value(string name){return Convert.ToString(Data[name]);}
+ public static string Gradient(int index){return Convert.ToString(((System.Collections.IEnumerable)Data["gradient"]).Cast<object>().ElementAt(index));}
+ public static readonly string FontName=ChooseFont();
+ static string ChooseFont(){using(var fonts=new InstalledFontCollection()){var available=fonts.Families.Select(f=>f.Name).ToArray();foreach(var name in (System.Collections.IEnumerable)Data["font"]){var text=Convert.ToString(name);if(available.Contains(text,StringComparer.OrdinalIgnoreCase))return text;}return "Segoe UI";}}
+}

diff --git a/scripts/check_desktop_design.py b/scripts/check_desktop_design.py
@@ -1,0 +1,10 @@
+"""Verify local shared tokens; compare companion checkout when available."""
+from pathlib import Path
+import hashlib
+root=Path(__file__).resolve().parents[1]
+raw=(root/'design/desktop-design.json').read_text(encoding='utf-8').replace('\r\n','\n')
+expected=(root/'design/desktop-design.sha256').read_text().strip()
+assert hashlib.sha256(raw.encode()).hexdigest()==expected,'Design manifest mismatch'
+other=root.parent/('chronos-agents' if root.name=='chronos-widgets' else 'chronos-widgets')/'design/desktop-design.json'
+if other.is_file():assert other.read_text(encoding='utf-8').replace('\r\n','\n')==raw,'Companion design tokens drifted'
+print('Shared desktop design tokens verified.')

diff --git a/cmd/agent/configdir_windows_test.go b/cmd/agent/configdir_windows_test.go
@@ -1,0 +1,17 @@
+//go:build windows
+
+package main
+
+import (
+ "testing"
+ "golang.org/x/sys/windows"
+)
+
+func TestConfigBaseIgnoresLauncherEnvironment(t *testing.T) {
+ expected, err := windows.KnownFolderPath(windows.FOLDERID_RoamingAppData,0)
+ if err != nil { t.Fatal(err) }
+ t.Setenv("AppData", t.TempDir())
+ actual, err := configBaseDir()
+ if err != nil { t.Fatal(err) }
+ if actual != expected { t.Fatal("collector and native UI must use the current user's known folder") }
+}

diff --git a/cmd/agent/main.go b/cmd/agent/main.go
@@ -22,7 +22,10 @@ import (
 )
 
 func main() {
-	base, _ := os.UserConfigDir()
+	base, e := configBaseDir()
+	if e != nil {
+		log.Fatal("cannot locate current user's configuration directory")
+	}
 	dir := flag.String("data", filepath.Join(base, "ChronosAgents"), "private local configuration directory")
 	listen := flag.String("listen", "127.0.0.1:17860", "local management bind address")
 	originFlag := flag.String("origin", "http://127.0.0.1:17860", "exact management origin")

diff --git a/cmd/agent/configdir_windows.go b/cmd/agent/configdir_windows.go
@@ -1,0 +1,11 @@
+//go:build windows
+
+package main
+
+import "golang.org/x/sys/windows"
+
+// Match the native UI's SpecialFolder.ApplicationData even when a launcher
+// provides an incorrect or inherited AppData environment variable.
+func configBaseDir() (string, error) {
+	return windows.KnownFolderPath(windows.FOLDERID_RoamingAppData, 0)
+}

diff --git a/cmd/agent/configdir_other.go b/cmd/agent/configdir_other.go
@@ -1,0 +1,7 @@
+//go:build !windows
+
+package main
+
+import "os"
+
+func configBaseDir() (string, error) { return os.UserConfigDir() }

diff --git a/README.md b/README.md
@@ -27,6 +27,10 @@ Chronos Agents 是独立的设备遥测项目，包含轻量采集器、Android 
 设备 → Agents Hub → Monitoring 后端适配 → Widgets。Agents 可独立运行；Widgets 使用工作台账号，不能直接用 Hub 密码或配对码登录。详情见 [三项目接入与迁移](docs/CHRONOS_ECOSYSTEM.md)。
 
 
+## Windows 客户端更新
+
+[Windows 1.0.1](https://github.com/Jimmy-xuzimo/Chronos-Agents/releases/tag/windows-v1.0.1) 与 [Widgets 1.2.0](https://github.com/Jimmy-xuzimo/Chronos-Widgets/releases/tag/v1.2.0) 采用统一的轻量彩色桌面设计。修复默认配置路径与登录自启动；版本与验证见 [Windows 发行说明](docs/releases/windows-1.0.1.md)。
+
 ## 各端交互
 
 - **Windows：**从开始菜单或托盘打开原生窗口；关闭窗口继续采集。管理密码可以由 DPAPI 加密记住，设备 Token 保持原有存储。

diff --git a/docs/releases/windows-1.0.1.md b/docs/releases/windows-1.0.1.md
@@ -1,0 +1,8 @@
+# Windows 客户端 1.0.1
+
+- 与 Widgets 1.2.0 共用嵌入式彩色桌面设计参数，统一主次文字、强调色、按钮和圆角；保持无主题轮询、无装饰动画。
+- 修复采集核心默认配置目录：使用 Windows 当前用户 RoamingAppData 已知文件夹，与原生窗口一致，避免启动环境变化读取到空绑定。
+- 安装入口、快捷方式和自启动显式保留配置目录；原生窗口保存设置不再丢失启动目录。
+- 保留现有 DPAPI 登录与设备凭据。本次是 Windows 安装包修订；Hub、macOS 和 Android 不在本次二进制发行范围。
+
+构建：C# 原生窗口、Go Windows 核心、Inno 安装器。截图使用虚构数据；公开版本不含服务器、账号、配对码或设备 Token。升级前后需核对持续上传；未以重启整机代替用户当前工作会话。
